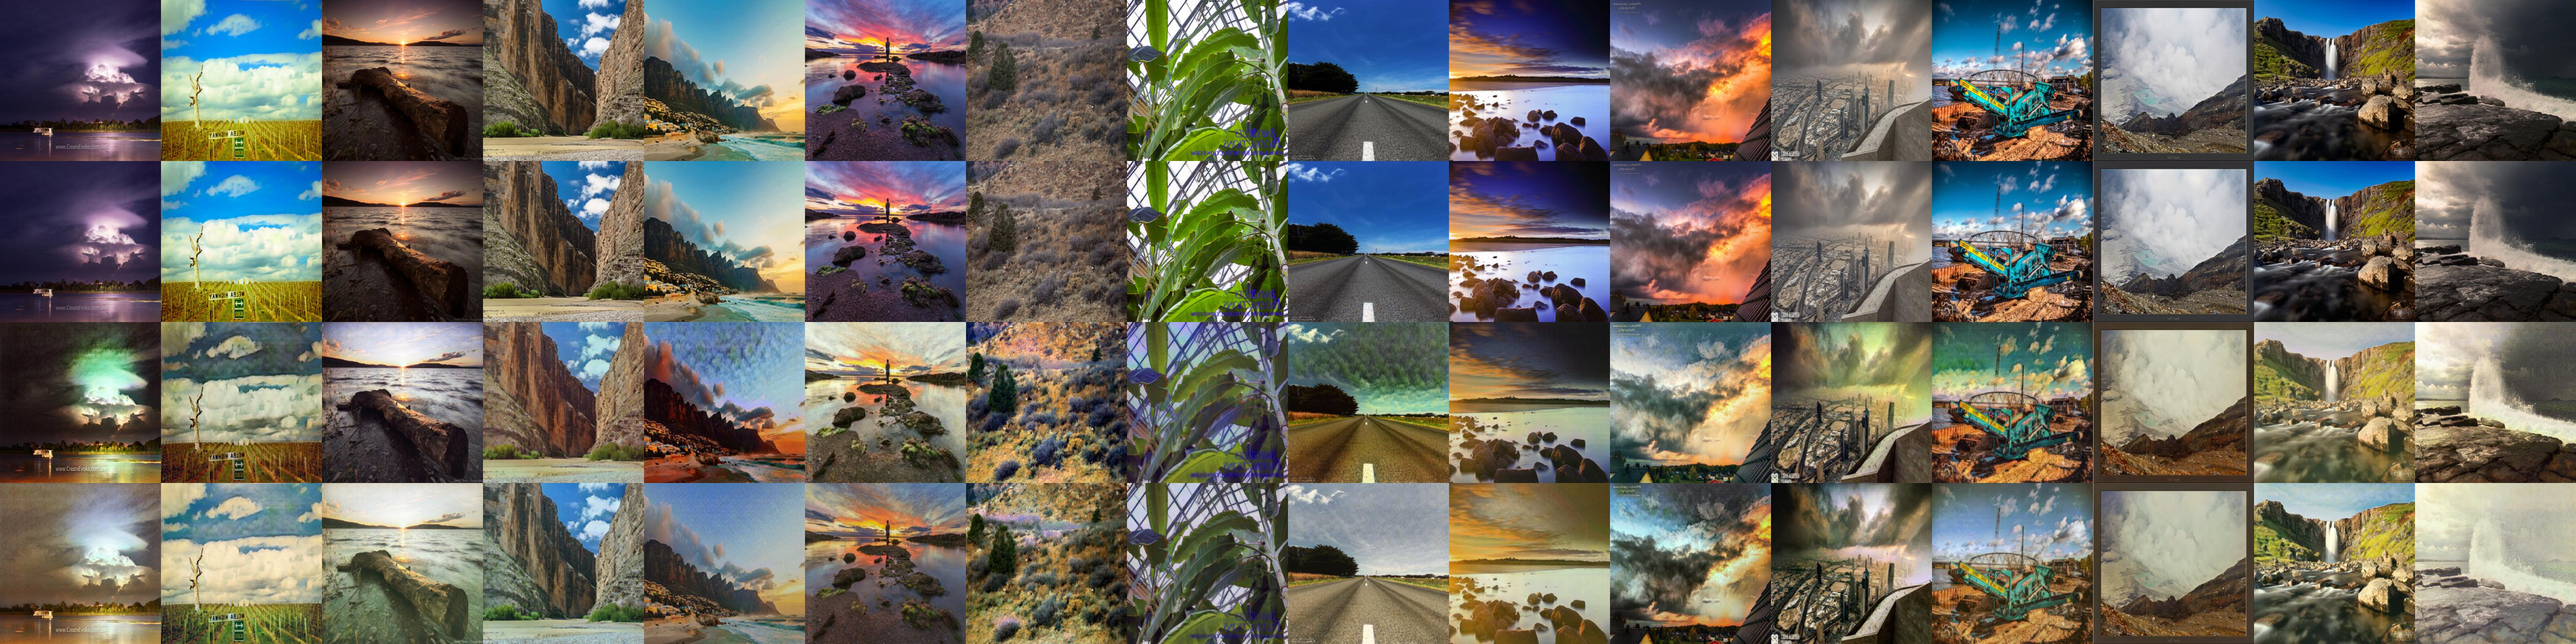
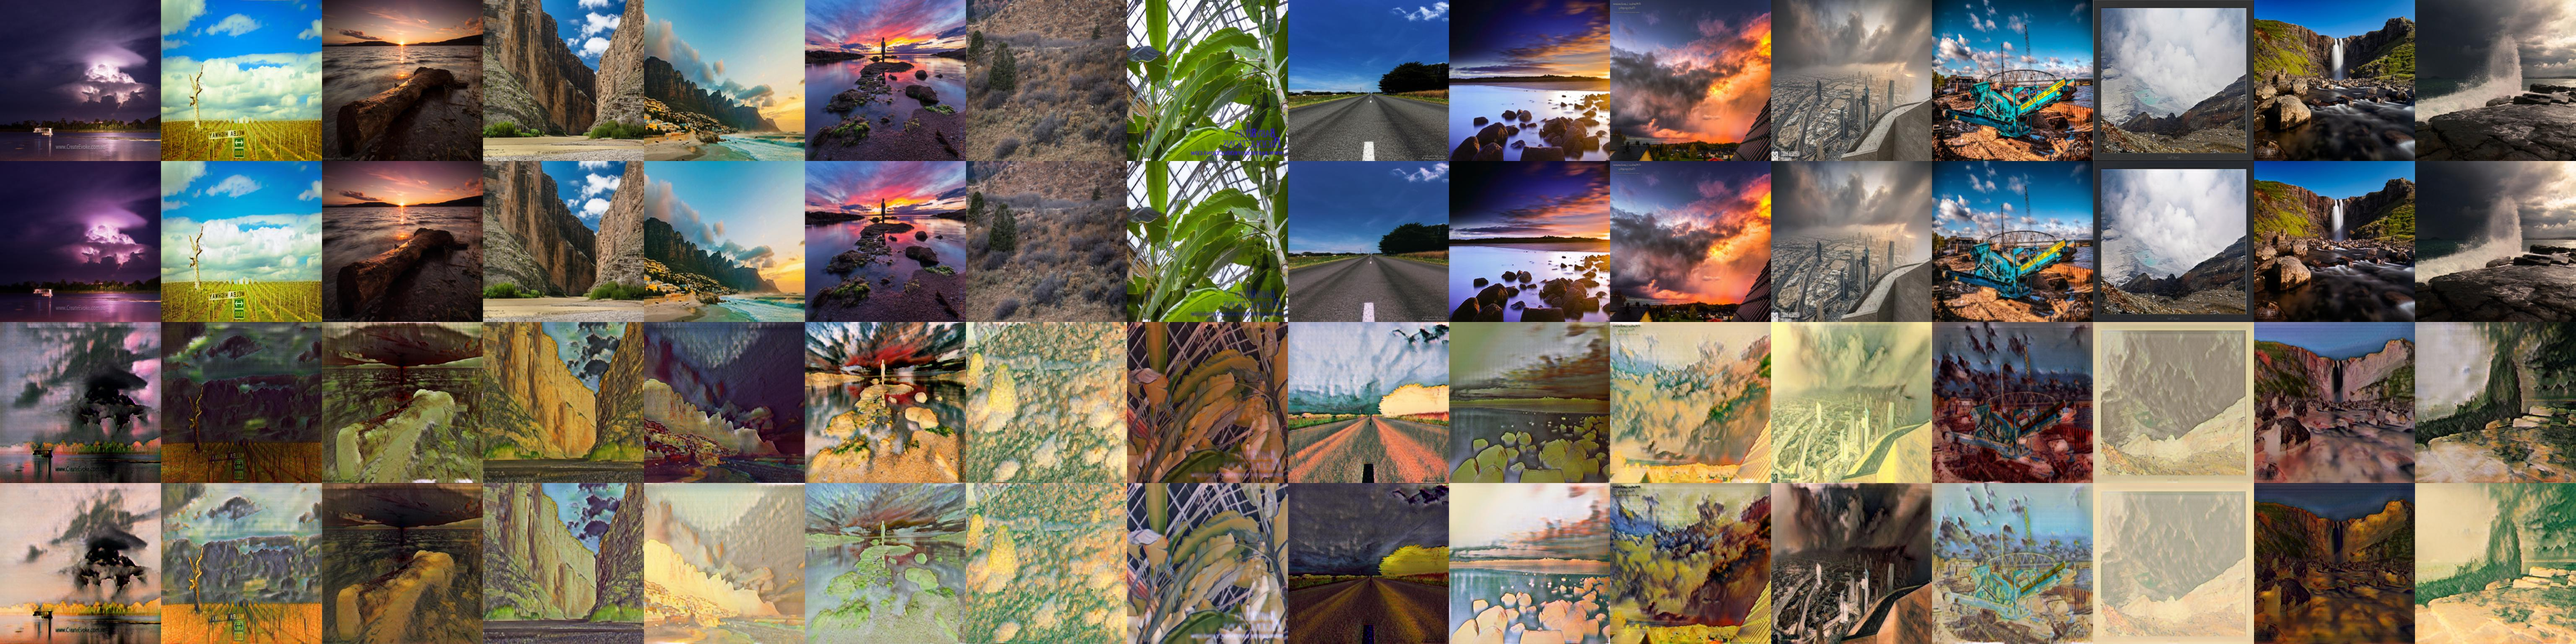
latest news

diff --git a/model/new_munit_vgg.py b/model/new_munit_vgg.py
@@ -60,13 +60,13 @@ params = {
 'recon_x_w': 10,                 # weight of image reconstruction loss
 'recon_s_w': 1,                  # weight of style reconstruction loss
 'recon_c_w': 1,                  # weight of content reconstruction loss
-'recon_x_cyc_w': 0,              # weight of explicit style augmented cycle consistency loss
-'vgg_w': 1,                      # weight of domain-invariant perceptual loss
+'recon_x_cyc_w': 10,              # weight of explicit style augmented cycle consistency loss
+'vgg_w': 0,                      # weight of domain-invariant perceptual loss
 
 # model options
 'gen': {
 'dim': 64,                         # number of filters in the bottommost layer
-'mlp_dim': 384,                    # number of filters in MLP
+'mlp_dim': 256,                    # number of filters in MLP
 'style_dim': 8,                    # length of style code
 'activ': 'relu',                   # activation function [relu/lrelu/prelu/selu/tanh]
 'n_downsample': 2,                 # number of downsampling layers in content encoder
@@ -1063,7 +1063,7 @@ def get_model_list(dirname, key):
     last_model_name = gen_models[-1]
     return last_model_name
 
-train_resume = True
+train_resume = False
 
 iterations = trainer.resume(checkpoint_directory, params) if train_resume else 0
 
@@ -1111,4 +1111,5 @@ while True:
         iterations += 1
         if iterations >= max_iter:
             sys.exit('Finish training')
+
 
